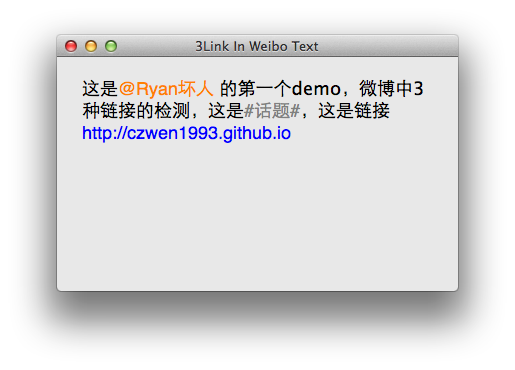
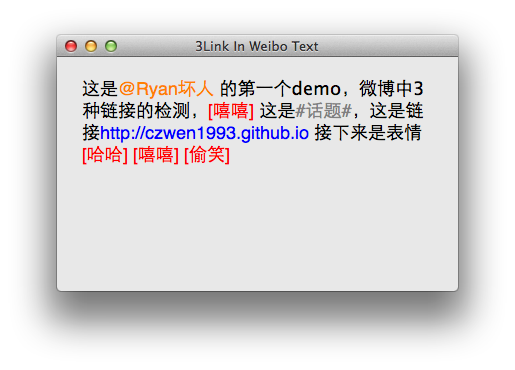
支持表情的检测

Changed region(s): [[0.1553, 0.2676, 0.8388, 0.4459]]

diff --git a/3Link In Weibo Text/AppDelegate.m b/3Link In Weibo Text/AppDelegate.m
@@ -35,7 +35,7 @@
     NSArray *linkMatches = [text scanStringForLinks];
     NSArray *usernameMatches = [text scanStringForUsernames];
     NSArray *hashtagMatches = [text scanStringForHashtags];
-    
+    NSArray *emojiMathces = [text scanStringForEmoji];
     //为链接添加属性（颜色、字体……）
     for (NSString *linkMatchedString in linkMatches) {
         NSRange range = [text rangeOfString:linkMatchedString];
@@ -80,6 +80,21 @@
                                        hashtagMatchedString, @"HashtagMatch",
                                        nil];
             [attributeString addAttributes:HashtagMatch range:range];
+        }
+    }
+    
+    for (NSString *emojiMatchedString in emojiMathces) {
+        NSRange range = [text rangeOfString:emojiMatchedString];
+        
+        if (range.location != NSNotFound) {
+            // Add custom attribute of HashtagMatch to indicate where our hashtags are found
+            NSDictionary *emojiMatch = [[NSDictionary alloc] initWithObjectsAndKeys:
+                                          [NSColor redColor], NSForegroundColorAttributeName,
+                                          [NSCursor pointingHandCursor], NSCursorAttributeName,
+                                          [NSFont fontWithName:@"Helvetica" size:18], NSFontAttributeName,
+                                          emojiMatchedString, @"EmojiMatch",
+                                          nil];
+            [attributeString addAttributes:emojiMatch range:range];
         }
     }
     

diff --git a/3Link In Weibo Text/NSString+FindSomeLinkInText.m b/3Link In Weibo Text/NSString+FindSomeLinkInText.m
@@ -21,4 +21,8 @@
 - (NSArray *)scanStringForHashtags {
 	return [self componentsMatchedByRegex:@"#([^\\#|.]+)#"];
 }
+
+- (NSArray *)scanStringForEmoji {
+	return [self componentsMatchedByRegex:@"\\[([^\\#|.]+)\\]"];
+}
 @end

diff --git a/3Link In Weibo Text/NSString+FindSomeLinkInText.h b/3Link In Weibo Text/NSString+FindSomeLinkInText.h
@@ -13,4 +13,5 @@
 - (NSArray *)scanStringForLinks;
 - (NSArray *)scanStringForUsernames;
 - (NSArray *)scanStringForHashtags;
+- (NSArray *)scanStringForEmoji;
 @end

diff --git a/README.md b/README.md
@@ -3,4 +3,6 @@
 
 @Ryan坏人 #话题# http://czwen1993.github.io NSTextView中上述3种链接检测
 
+现已支持表情的检测
+
 ![image](ScreenShot.png)
